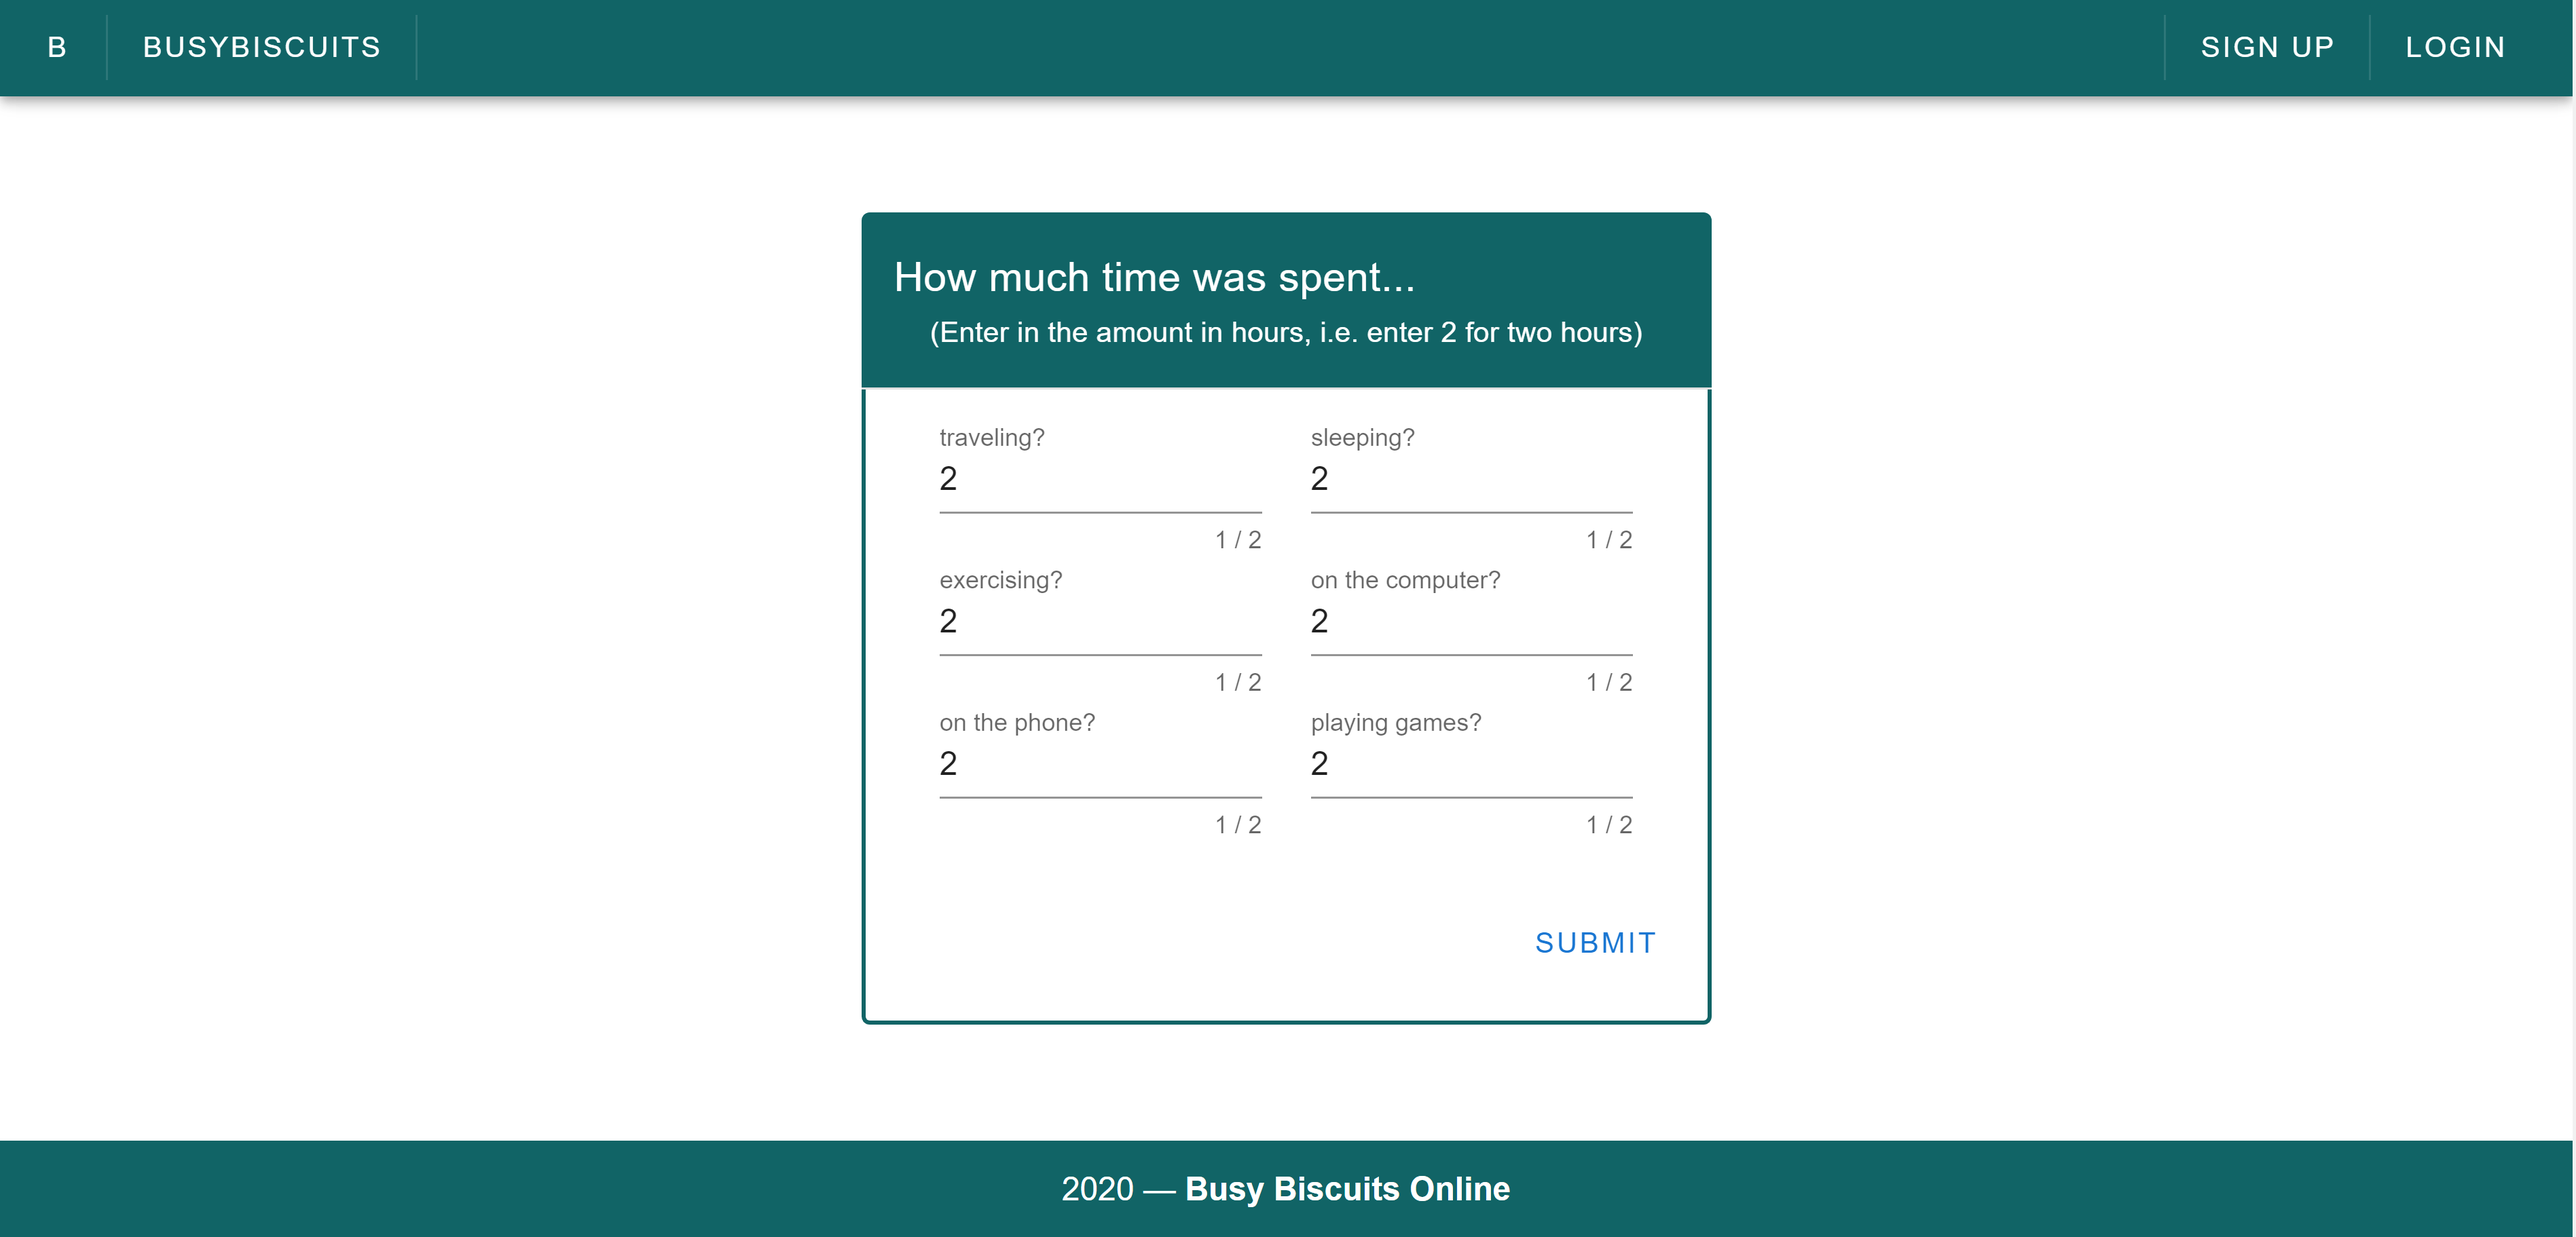
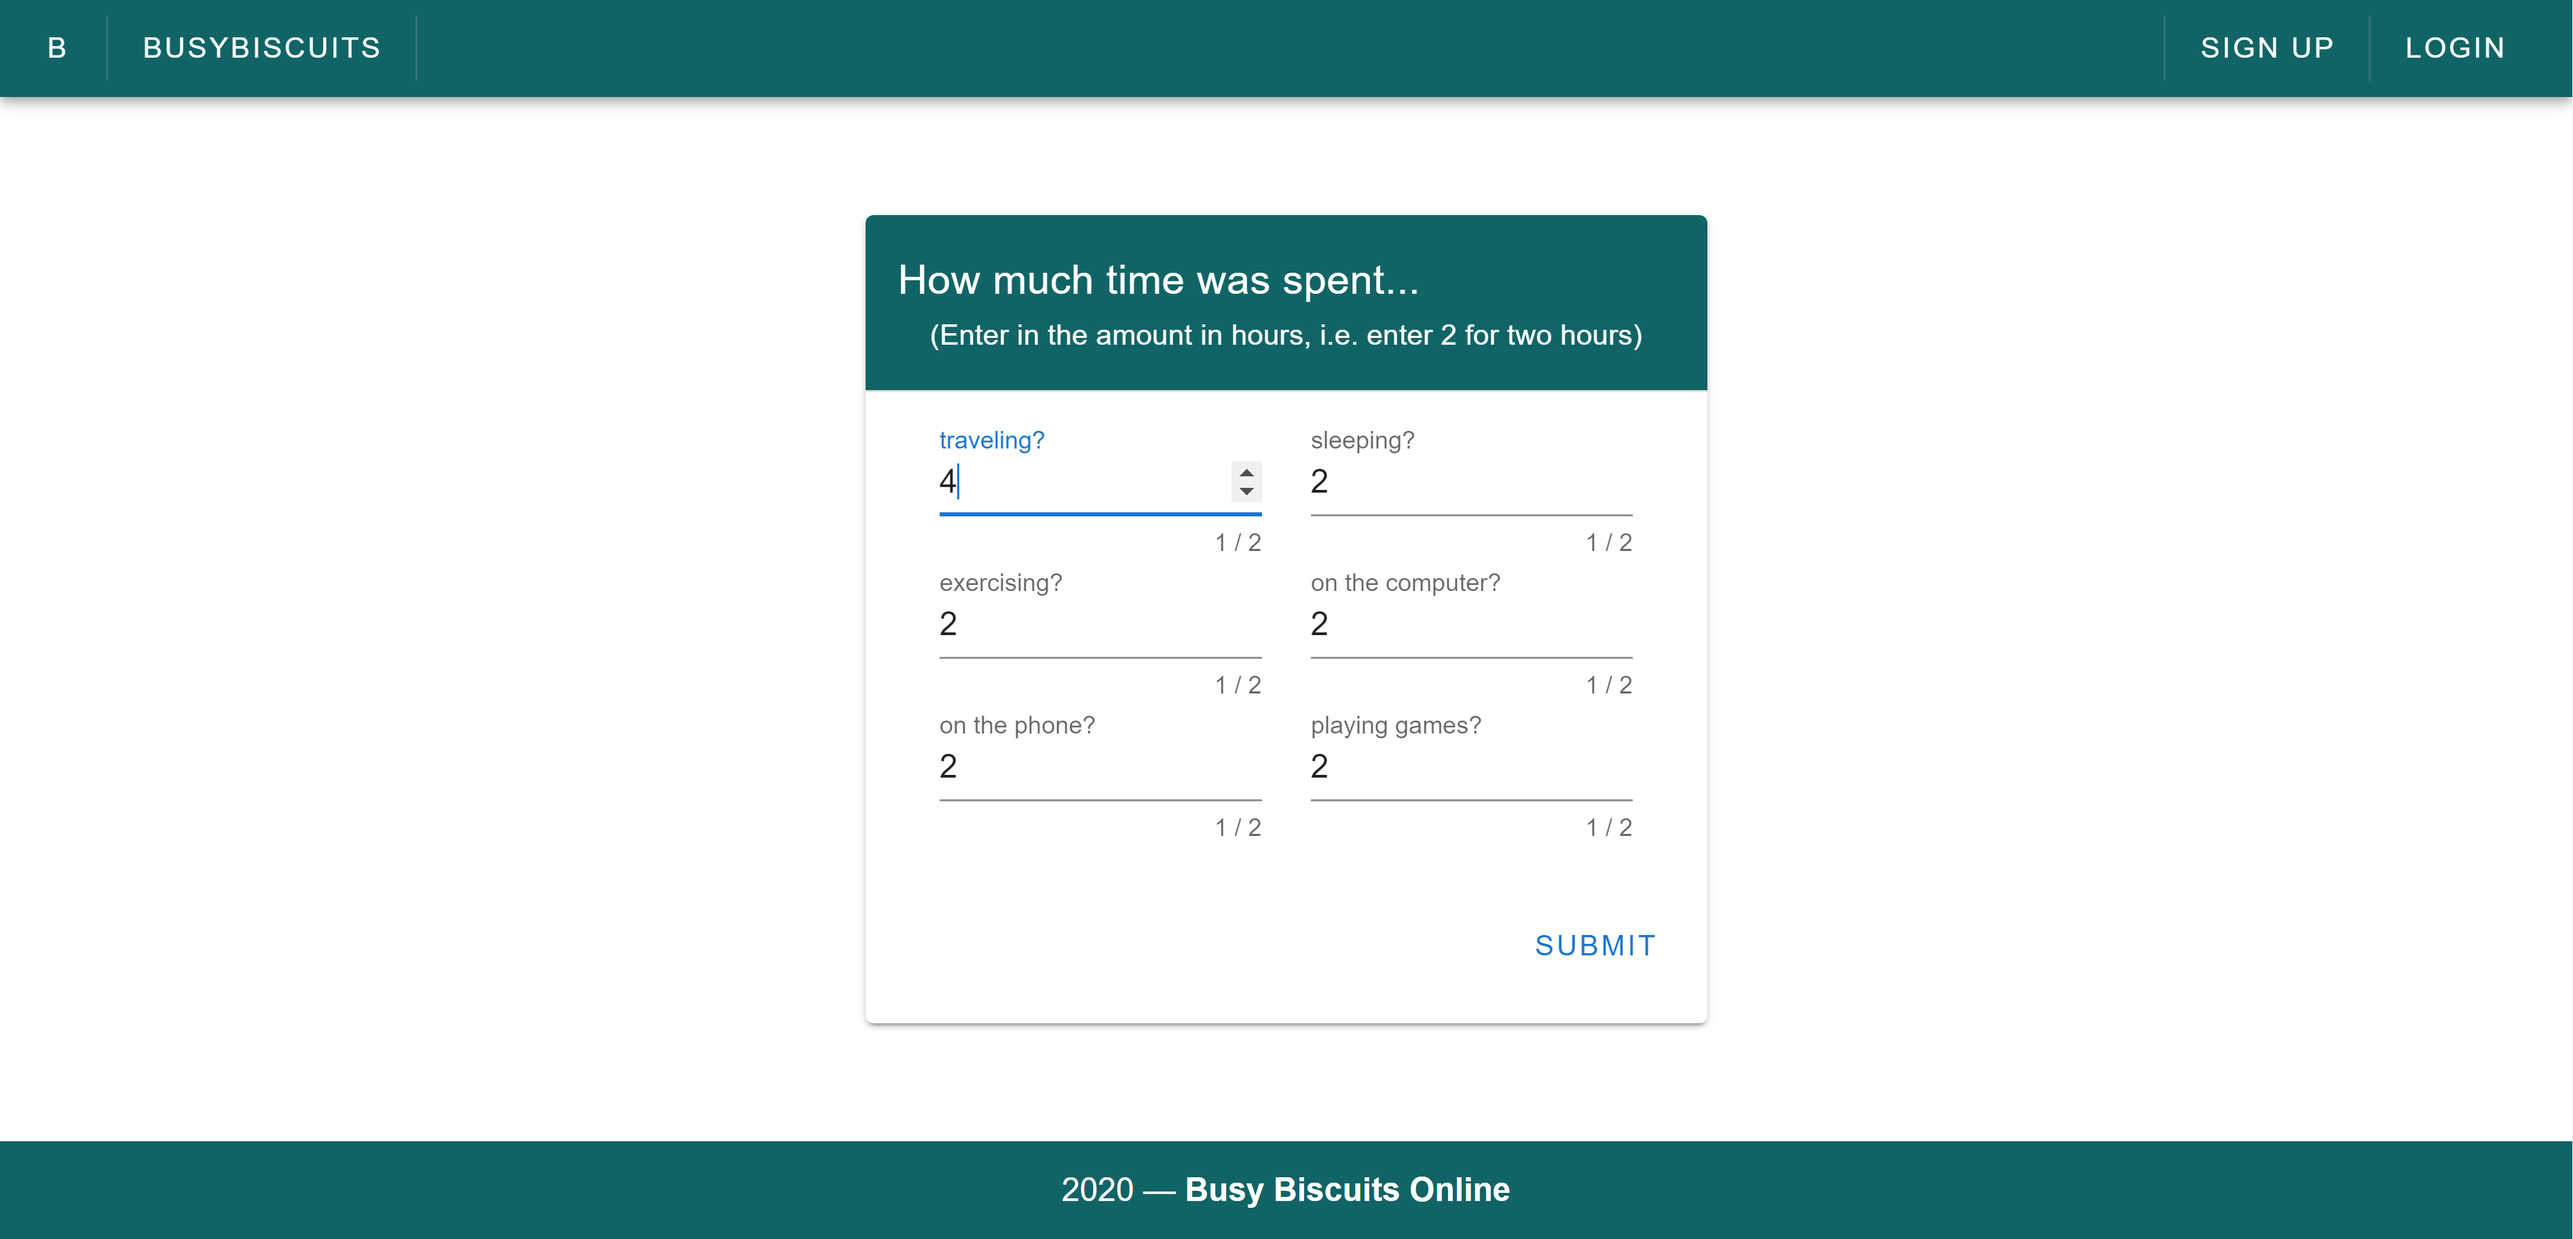
Updated read me and took border away from dataentryform and made it hover

diff --git a/client/src/views/Forms/FormTimeSpent.vue b/client/src/views/Forms/FormTimeSpent.vue
@@ -1,7 +1,7 @@
 <template>
     <v-container class="fill-height justify-center" fluid>
 
-        <v-card style="background: white;" flat>
+        <v-card style="background: white;">
             <v-card-title class="form-card-heading">
                 How much time was spent...
             </v-card-title>
@@ -11,7 +11,7 @@
 
             <v-divider></v-divider>
 
-            <v-form ref="form" class="form-border">
+            <v-form ref="form">
                 <v-row align="center" justify="center">
 
                     

diff --git a/README.md b/README.md
@@ -40,3 +40,6 @@ However, there is always things to add. The following are some of the main featu
 
 - Dashboard - Line Graph - Shows data from past 7 days based on chosen category
 ![3](./screenshots/dashboard-pt3.PNG) 
+
+- Date entry form
+![3](./screenshots/data-entry-form.PNG) 
